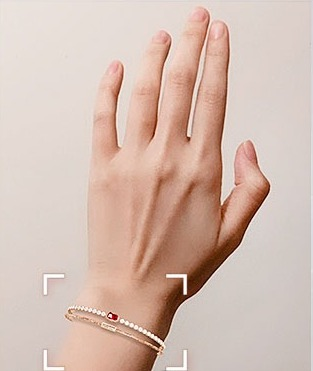
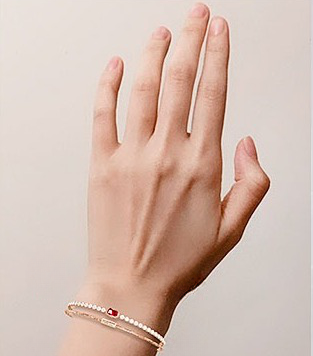
fixed images having single hand for all steps in usermanual

diff --git a/js/utils.js b/js/utils.js
@@ -77,9 +77,11 @@ function startSession() {
 }
 
 function showManual() {
+  let step1img = document.getElementById("step1img");
   let step2img = document.getElementById("step2img");
   let step3img = document.getElementById("step3img");
 
+  step1img.src = `assets/${jewelType}step1.jpg`;
   step2img.src = `assets/${jewelType}step2.jpg`;
   step3img.src = `assets/${jewelType}step3.gif`;
 

diff --git a/tryon.html b/tryon.html
@@ -151,7 +151,7 @@
         <h2>Try on with 3 simple steps !</h2>
         <div class="allsteps">
           <div class="step">
-            <img src="assets/step1.jpg" class="stepimg" id="step1img"/>
+            <img src="" class="stepimg" id="step1img"/>
             <p class="steptext">
               First place your hand vertically in front of camera
             </p>
